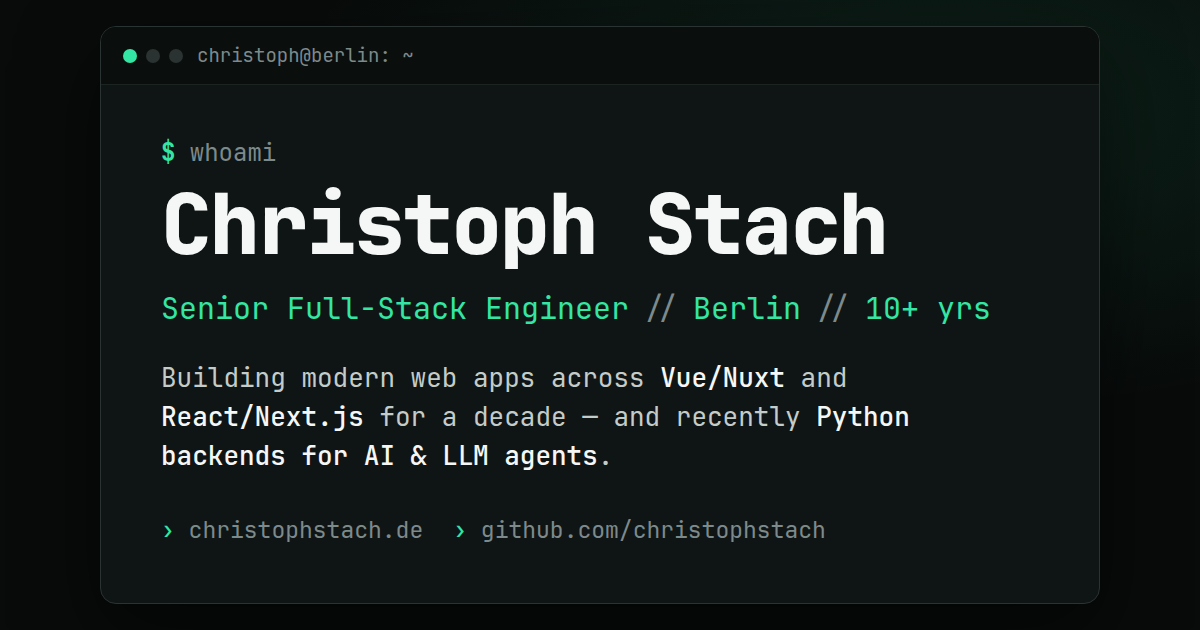
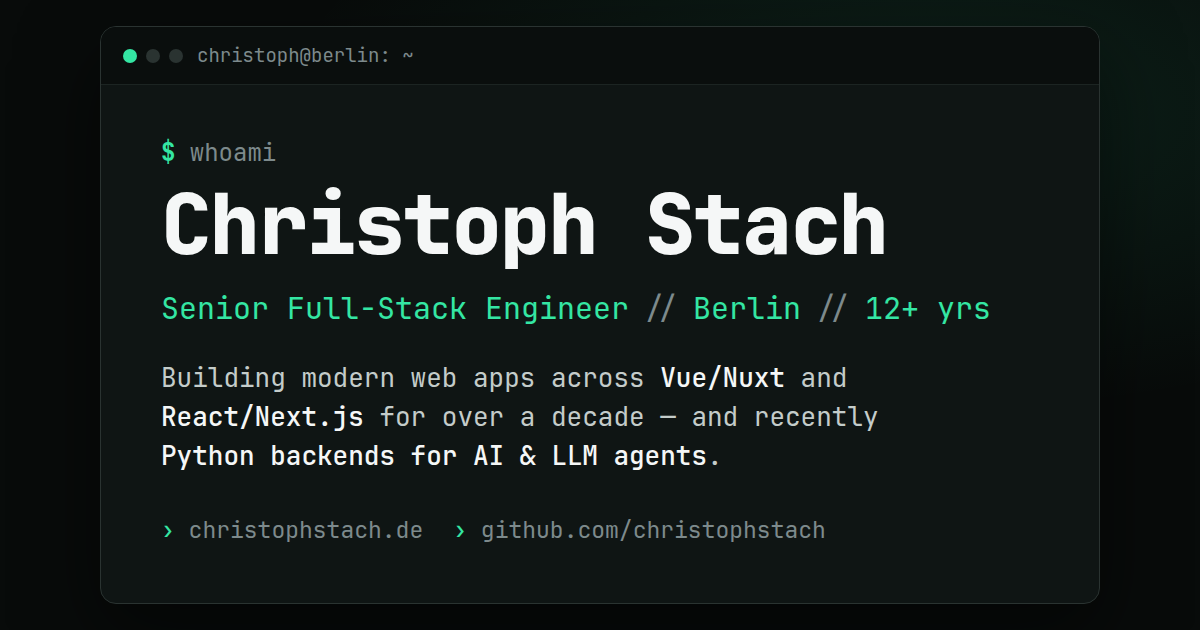
fix(seo): refresh the stale social card
The card shown when the site is shared still read "10+ yrs" and "for a
decade" after the site started deriving 12 from `experience`.

Regenerated from the template with the documented Chrome command.

Claude-Session: https://claude.ai/code/session_018AUyyAzXi7nzfyt1LpeHdc

Changed region(s): [[0.2158, 0.6333, 0.7708, 0.754], [0.1233, 0.6937, 0.185, 0.754], [0.74, 0.4825, 0.7708, 0.5127]]

diff --git a/tools/og-card.html b/tools/og-card.html
@@ -117,11 +117,11 @@
         <div class="cmd"><span class="prompt">$</span> whoami</div>
         <h1>Christoph Stach</h1>
         <div class="role">
-          Senior Full-Stack Engineer<span class="sep">//</span>Berlin<span class="sep">//</span>10+
+          Senior Full-Stack Engineer<span class="sep">//</span>Berlin<span class="sep">//</span>12+
           yrs
         </div>
         <div class="desc">
-          Building modern web apps across <b>Vue/Nuxt</b> and <b>React/Next.js</b> for a decade
+          Building modern web apps across <b>Vue/Nuxt</b> and <b>React/Next.js</b> for over a decade
           &mdash; and recently <b>Python backends for AI &amp; LLM agents</b>.
         </div>
         <div class="links">
